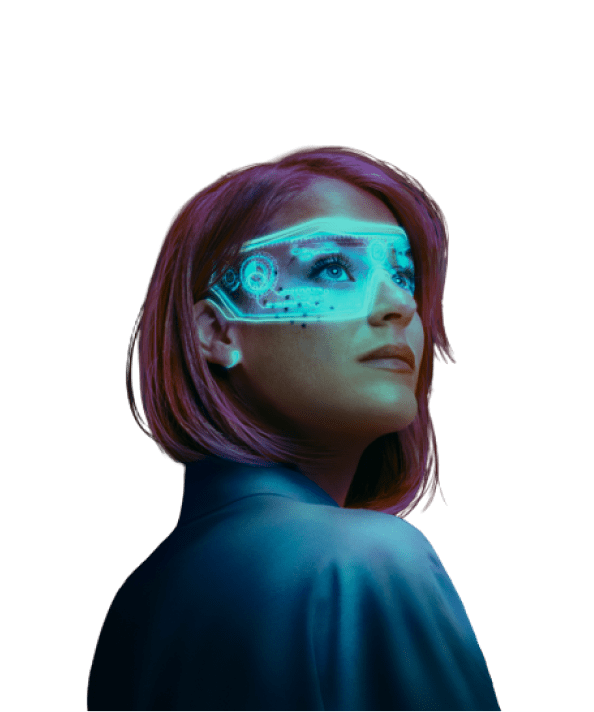
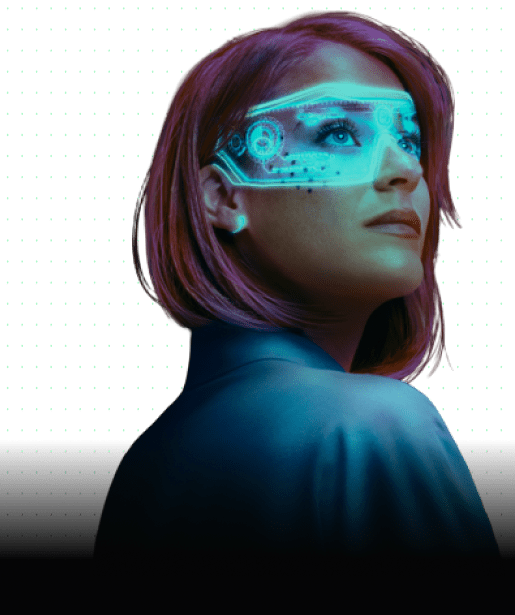
section about

diff --git a/src/partials/about.html b/src/partials/about.html
@@ -1,5 +1,64 @@
-<div class="container">
-  <div class="about">
-    <h2>About</h2>
+<div class="about">
+  <div class="container">
+    <ul class="about__services">
+      <li class="about__services--item">
+        <div class="about__services--image-container">
+          <img src="../../src/svg/pen-tool-ICO.svg" alt="icon about serviser" class="about__services--image" />
+        </div>
+        <div class="about__services--text-container">
+          <span class="about__services--title">UI / UX Design</span>
+          <p class="about__services--text">
+            The process of developing UI/UX design for websites includes analyzing the target audience and their needs,
+            creating ideas and design concepts, developing prototypes and testing them for user experience, as well as
+            defining the color palette, fonts, and other design elements.
+          </p>
+        </div>
+      </li>
+      <li class="about__services--item">
+        <div class="about__services--image-container">
+          <img src="../../src/svg/dev-tool.svg" alt="icon about serviser" class="about__services--image" />
+        </div>
+        <div class="about__services--text-container">
+          <span class="about__services--title">Desktop Application Development</span>
+          <p class="about__services--text">
+            Desktop application development is the process of creating software to run on personal computers, which are
+            installed and executed without internet access, and can have various functionalities ranging from processing
+            text and tables to advanced graphical capabilities and use of databases.
+          </p>
+        </div>
+      </li>
+      <li class="about__services--item">
+        <div class="about__services--image-container">
+          <img src="../../src/svg/trend-up.svg" alt="icon about serviser" class="about__services--image" />
+        </div>
+        <div class="about__services--text-container">
+          <span class="about__services--title">Omnichannel Marketing</span>
+          <p class="about__services--text">
+            Omnichannel marketing is a marketing strategy that involves using various communication channels with
+            customers, such as email, social media, mobile apps, SMS messages, and others, to create a seamless and
+            consistent experience of interacting with a brand regardless of the customer's chosen communication channel.
+          </p>
+        </div>
+      </li>
+    </ul>
+
+    <ul class="about__company">
+      <li>
+        <h2 class="about__company--title">About company</h2>
+        <p class="about__company--text">
+          <span>KiWiCode Solution</span>
+          is an innovative IT company that provides comprehensive solutions in UI/UX design, desktop application
+          development, and marketing. The company has many years of experience in creating high-quality projects for
+          clients worldwide, and they focus on meeting the individual needs and requirements of each client.
+        </p>
+      </br>
+        <p class="about__company--text">
+          <span>KiWiCode Solution</span> guarantees high-quality work and uses the latest technological solutions to
+          ensure the success of its clients in the business sphere. They also provide ongoing support and technical
+          assistance to their clients even after completing the project.
+        </p>
+      </li>
+      <li><img src="../../src/img/girl.png"  class="about__company--img"/></li>
+    </ul>
   </div>
 </div>

diff --git a/src/styles/components/_about.scss b/src/styles/components/_about.scss
@@ -1,8 +1,120 @@
 .about {
+  background-color: $main_bgcolor;
+  background-image: url("../../../src/img/hero.png");
+  background-position: 50% 10%;
+  background-size: contain;
+  background-repeat: no-repeat;
+  padding-top: 130px;
+  padding-bottom: 200px;
+  // height: 1900px;
+
   &_title {
     font: bold;
   }
   &_img {
     position: absolute;
+  }
+
+  &__services {
+    display: flex;
+
+    &--text-container {
+      display: flex;
+      flex-direction: column;
+      justify-content: space-between;
+    }
+
+    &--image-container {
+      width: 84px;
+      height: 84px;
+
+      background: linear-gradient($main_bgcolor, $main_bgcolor) padding-box,
+        linear-gradient(180deg, rgba(56, 239, 125, 1), rgba(17, 153, 142, 0)) border-box;
+      border-radius: 50em;
+      border: 10px solid transparent;
+
+      position: relative;
+
+      margin-bottom: 20px;
+
+      &::after {
+        height: 1px;
+        width: 133px;
+        display: inline-block;
+        position: absolute;
+        top: 84px;
+        left: -10px;
+
+        content: "";
+
+        background: $main;
+        border-radius: 2px;
+
+        opacity: 0.1;
+      }
+    }
+
+    &--item {
+      width: 315px;
+      margin-right: 110px;
+      &:last-child {
+        margin-right: 0;
+      }
+    }
+
+    &--image {
+      position: absolute;
+      top: 50%;
+      left: 50%;
+      transform: translate(-50%, -50%);
+    }
+
+    &--title {
+      font-size: 24px;
+      font-weight: 500;
+      line-height: 1.4;
+      margin-bottom: 6px;
+    }
+
+    &--text {
+      line-height: 1.4;
+      opacity: 0.6;
+    }
+  }
+
+  &__company {
+    display: grid;
+    grid-template-columns: repeat(2, minmax(0, 1fr));
+    grid-row-gap: 215px;
+
+    margin-top: 75px;
+
+    &--title {
+      font-size: 48px;
+      font-weight: 700;
+      margin-bottom: 32px;
+
+      background: -webkit-linear-gradient(0deg, rgba(53, 234, 126, 1), rgba(34, 125, 148, 1));
+      -webkit-background-clip: text;
+      -webkit-text-fill-color: transparent;
+    }
+
+    &--text {
+      width: 514px;
+      font-size: 20px;
+      line-height: 1.6;
+      color: $gray;
+
+      span {
+        font-size: 24px;
+        font-weight: 600;
+        color: $main;
+      }
+    }
+
+    &--img {
+      height: 747px;
+      width: 750px;
+    }
   }
 }
